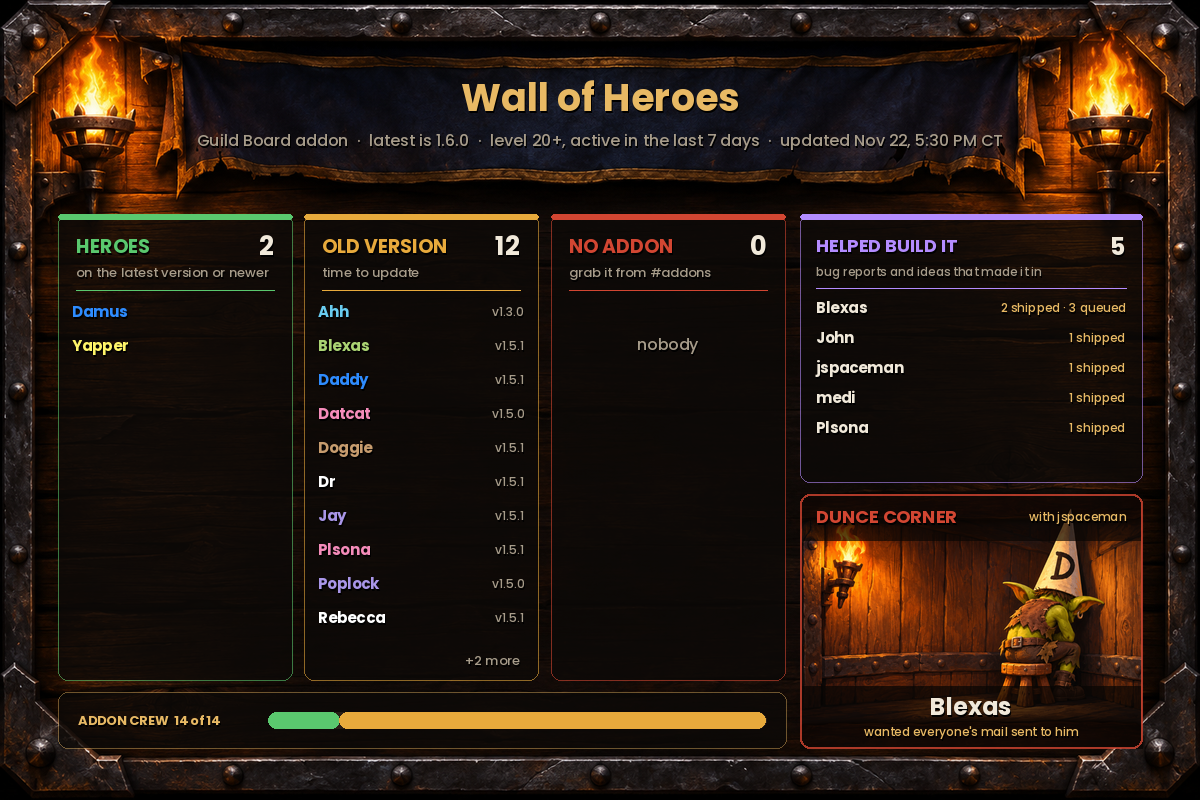
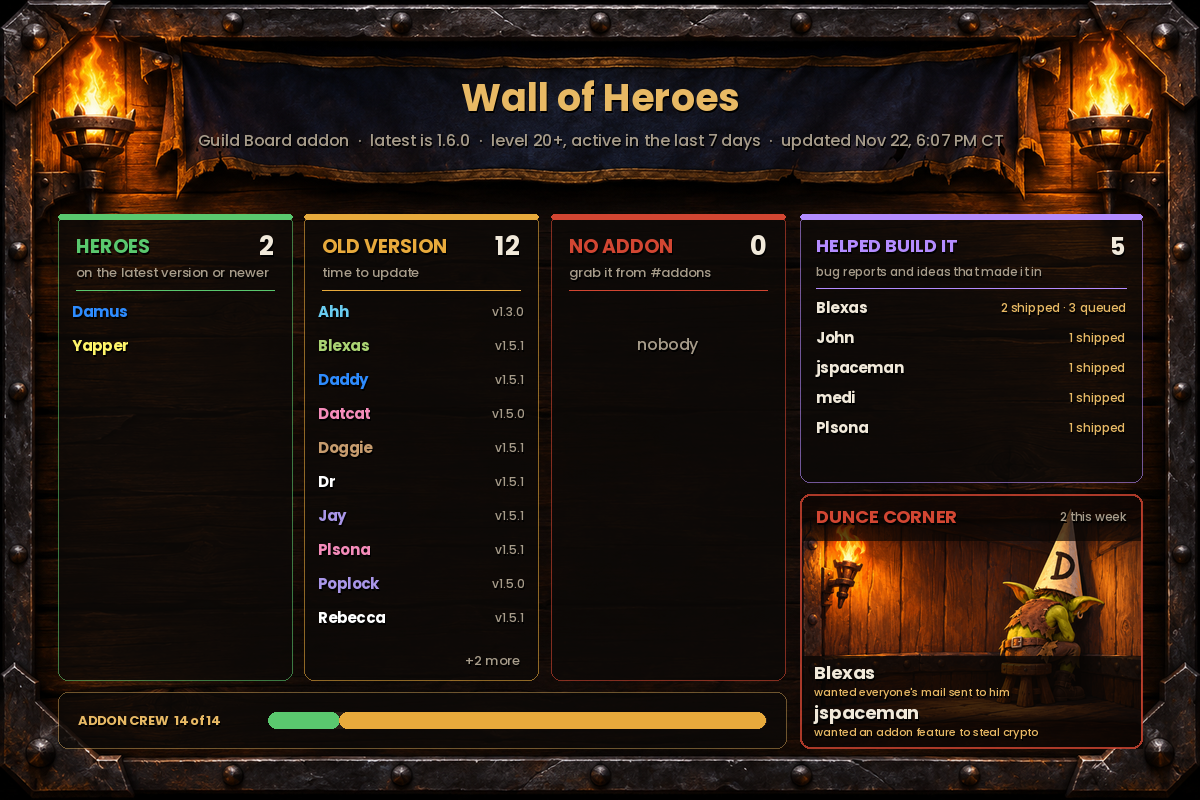
Dunce Corner: call out everyone this week (two names with their crimes, then +N more)
Claude-Session: https://claude.ai/code/session_017jBnobZoaeKB4uvSNzWhWQ

diff --git a/tools/guild_armory.py b/tools/guild_armory.py
@@ -288,15 +288,24 @@ def render(data, min_panels=0):
             m = Image.new('L', (bw, bh), 0); ImageDraw.Draw(m).rounded_rectangle([0, 0, bw - 1, bh - 1], 10, fill=255)
             im.paste(g, (x0, dy0), m)
         ov = Image.new('RGBA', im.size, (0, 0, 0, 0)); od = ImageDraw.Draw(ov)
-        od.rectangle([x0, dy0, x1, dy0 + 46], fill=(8, 5, 3, 170)); od.rectangle([x0, y1 - 62, x1, y1], fill=(8, 5, 3, 185))
+        band = 62 if len(dun) < 2 else 92
+        od.rectangle([x0, dy0, x1, dy0 + 46], fill=(8, 5, 3, 170)); od.rectangle([x0, y1 - band, x1, y1], fill=(8, 5, 3, 195))
         od.rounded_rectangle([x0, dy0, x1, y1], 10, outline=red + (200,), width=2)
         im = Image.alpha_composite(im, ov); d = ImageDraw.Draw(im)
         text(d, (x0 + 16, dy0 + 23), 'DUNCE CORNER', F(18, 'Bold'), red)
-        if dun:
-            others = 'with ' + ', '.join(x.get('who', '?') for x in dun[1:]) if len(dun) > 1 else 'this week'
-            text(d, (x1 - 16, dy0 + 23), fit(d, others, F(12, 'Medium'), bw - 190), F(12, 'Medium'), GOLD if len(dun) > 1 else MUTE, 'rm')
+        if len(dun) == 1:
+            text(d, (x1 - 16, dy0 + 23), 'this week', F(12, 'Medium'), MUTE, 'rm')
             text(d, ((x0 + x1) // 2, y1 - 42), fit(d, dun[0].get('who', '?'), F(24, 'Bold'), bw - 30), F(24, 'Bold'), TXT, 'mm')
             text(d, ((x0 + x1) // 2, y1 - 16), fit(d, dun[0].get('why', ''), F(12, 'Medium'), bw - 24), F(12, 'Medium'), GOLD, 'mm')
+        elif dun:
+            # everyone gets called out: two rows of name + crime, newest first, then "+N more"
+            shown = dun[:2]; rest = len(dun) - len(shown)
+            text(d, (x1 - 16, dy0 + 23), f"{len(dun)} this week", F(12, 'Medium'), MUTE, 'rm')
+            for k, x in enumerate(shown):
+                ry = y1 - band + 8 + k * 40
+                text(d, (x0 + 14, ry + 9), fit(d, x.get('who', '?'), F(18, 'Bold'), bw - 28), F(18, 'Bold'), TXT)
+                text(d, (x0 + 14, ry + 28), fit(d, x.get('why', ''), F(11, 'Medium'), bw - 28), F(11, 'Medium'), GOLD)
+            if rest > 0: text(d, (x1 - 14, y1 - band + 17), f"+{rest} more", F(12, 'Medium'), MUTE, 'rm')
         else:
             text(d, ((x0 + x1) // 2, y1 - 40), 'Empty. Keep it that way.', F(17, 'Bold'), TXT, 'mm')
             text(d, ((x0 + x1) // 2, y1 - 17), 'troll requests earn the hat', F(12, 'Medium'), MUTE, 'mm')
